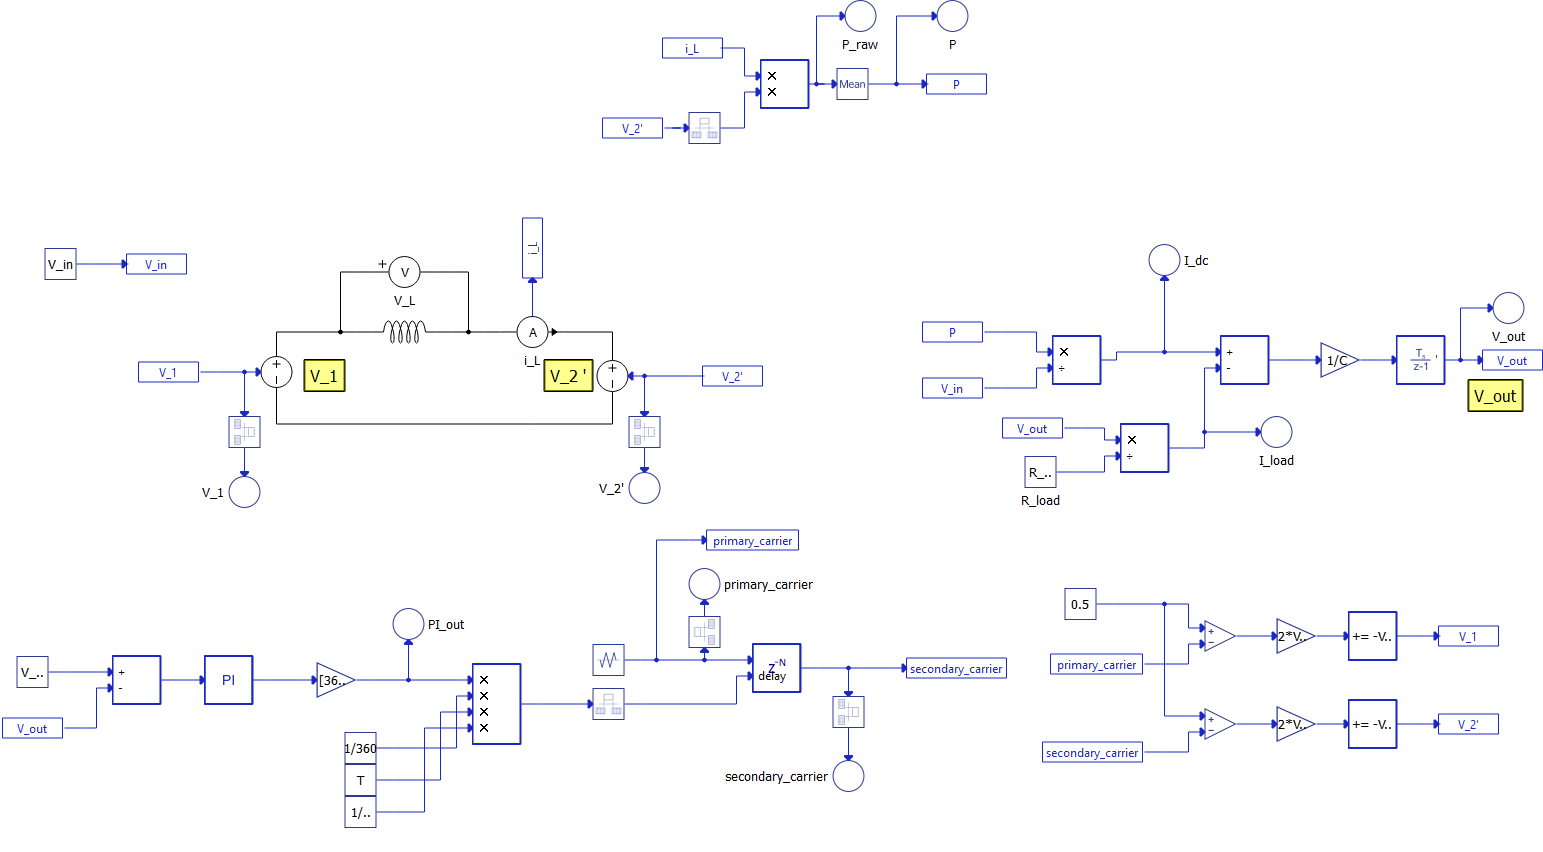
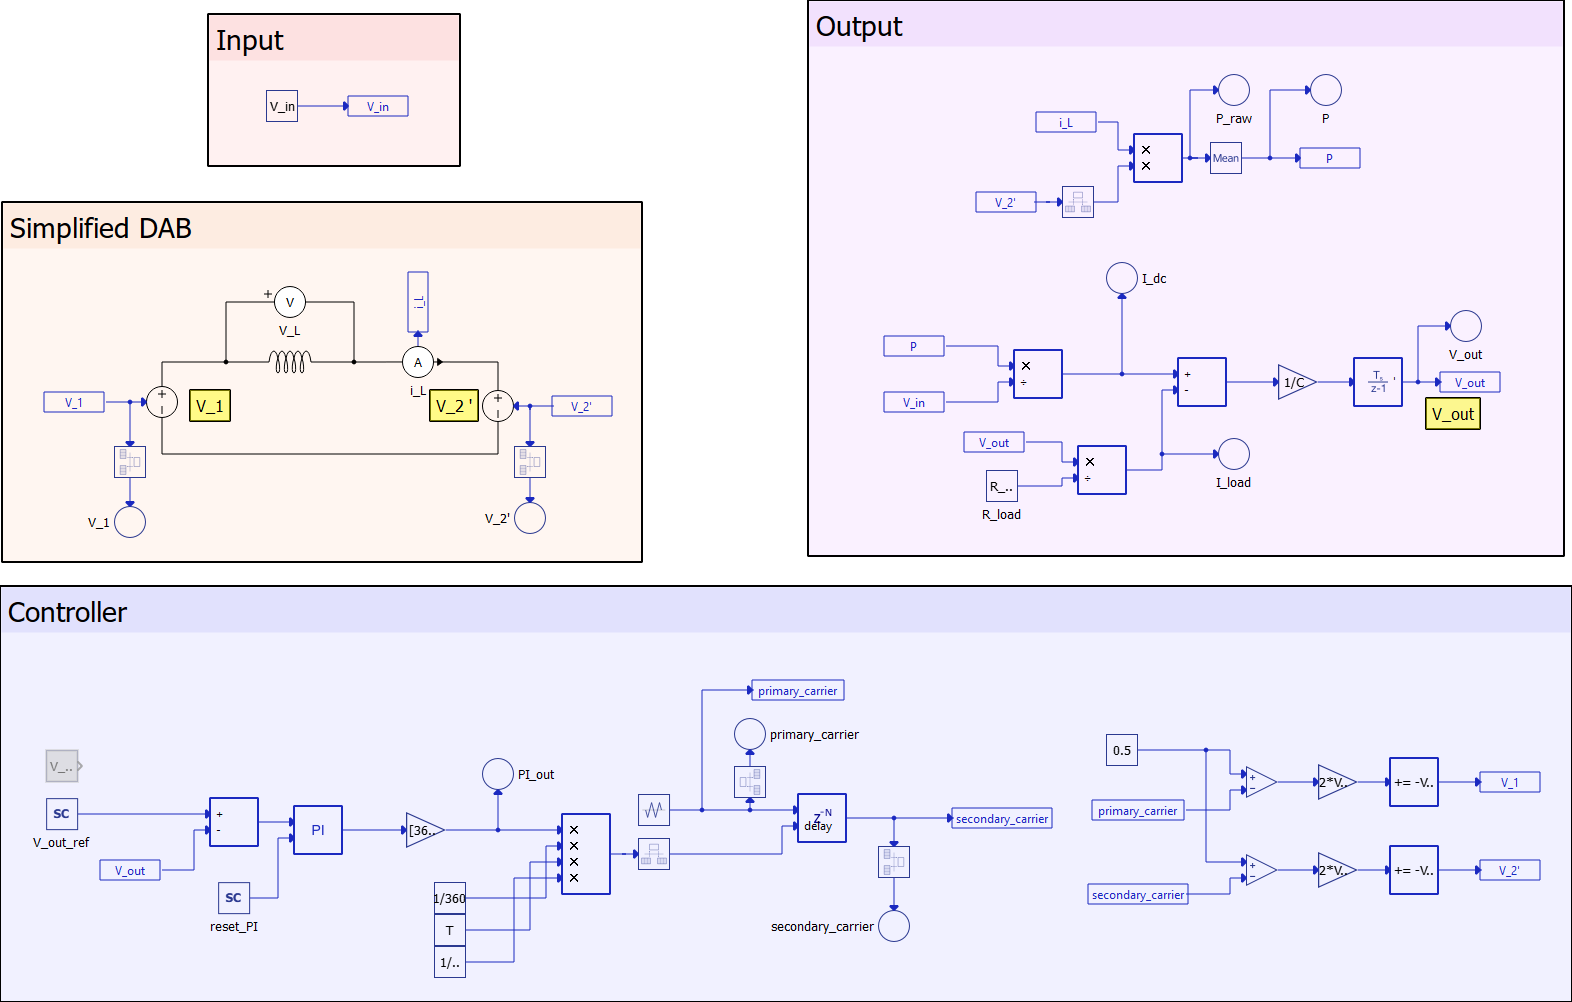
docs(closed-dab): add schematic figure

diff --git a/closed-loop-avg-dab/README.md b/closed-loop-avg-dab/README.md
@@ -3,3 +3,6 @@
 <p align='center'>
     <img src='./attachments/closed_loop_avg_dab.png' width='800'>
 </p>
+
+# Result
+
